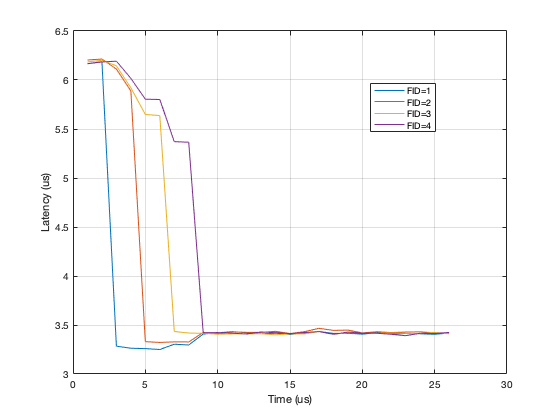
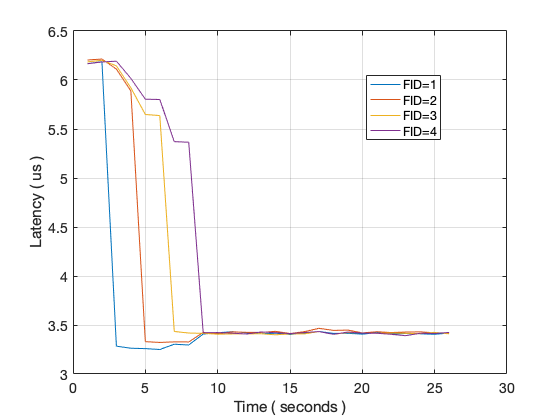
added graphs

diff --git a/app/pktgen.c b/app/pktgen.c
@@ -353,6 +353,27 @@ pktgen_insert_program(pg_active_instruction_hdr *instr, uint16_t bytecode[][3], 
 	}
 }
 
+void
+activep4_hdr_ctor(void *hdr, uint16_t flags, uint16_t fid, uint16_t acc_1, uint16_t acc_2, uint16_t reserved_1, uint16_t reserved_2)
+{
+	activep4_hdr_t *activep4 = hdr;
+
+	activep4->flags = rte_bswap16(flags);
+	activep4->fid = rte_bswap16(fid);
+	activep4->acc_1 = rte_bswap16(acc_1);
+	activep4->acc_2 = rte_bswap16(acc_2);
+	activep4->reserved_1 = rte_bswap16(reserved_1);
+	activep4->reserved_2 = rte_bswap16(reserved_2);
+}
+
+static inline void
+pktgen_insert_nop_program(pg_active_instruction_hdr *instr)
+{
+	pktgen_active_add_instruction(instr, 0, 3, 0); instr++;
+	pktgen_active_add_instruction(instr, 0, 0, 0); instr++;
+	pktgen_active_add_instruction(instr, 0, 1, 0); instr++;
+}
+
 static inline void
 pktgen_customize_cacheread_request(port_info_t *info, pg_active_instruction_hdr *instr, uint16_t key, uint16_t fidx)
 {
@@ -437,6 +458,7 @@ pktgen_active_insert(port_info_t *info __rte_unused,
 	int i;
 	uint16_t key, fid, flags;
 	uint32_t index;
+	uint64_t now, clkspeed;
 	int core_id = (rte_lcore_id() - 10) / 2 - 1;
 	//core_id = 0;
 	for (i = 0; i < cnt; i++) {
@@ -446,7 +468,16 @@ pktgen_active_insert(port_info_t *info __rte_unused,
 		//core_id = fid - 1;
 
 		fid = core_id + 1;
-		//fid = 1;
+
+		if(core_id == 0) {
+			//fid = 10;
+			now = rte_rdtsc_precise();
+			clkspeed = rte_get_tsc_hz();
+			info->activep4_stats[core_id].elapsed_sec = (now - info->activep4_stats[core_id].start_time) * 1.0f / clkspeed;
+			/*if(info->activep4_stats[core_id].elapsed_sec >= 5) {
+				fid = 1;
+			}*/
+		}
 
 		pg_active_initial_hdr *activep4;
 		pg_active_instruction_hdr *instr;
@@ -500,7 +531,10 @@ pktgen_active_insert(port_info_t *info __rte_unused,
 				index = irand(info->activep4_stats[core_id].zipf_len);
 				key = info->activep4_stats[core_id].zipf[index].key;
 				activep4->acc2 = rte_bswap16(key);
-				pktgen_customize_cacheread_request(info, instr, key, core_id);
+				if(info->activep4_stats[core_id].elapsed_sec >= 5)
+					pktgen_customize_cacheread_request(info, instr, key, core_id);
+				else
+					pktgen_insert_nop_program(instr);
 			}
 		} else {
 			//info->sizes._65_127++;
@@ -622,7 +656,7 @@ pktgen_recv_tstamp(port_info_t *info, struct rte_mbuf **pkts, uint16_t nb_pkts)
 			if (tstamp->magic == TSTAMP_MAGIC) {
 				now = rte_rdtsc_precise();
 				clkspeed = rte_get_tsc_hz();
-				now_msecs = round((now * 1 / clkspeed));
+				now_msecs = round((now * 1.0f / clkspeed));
 				lat = (now - tstamp->timestamp);
 				lat_adjusted = (lat * 1.0f / clkspeed) * 1E9;
 				if(info->activep4_last_msec == 0) 

diff --git a/app/pktgen-cmds.c b/app/pktgen-cmds.c
@@ -1670,14 +1670,14 @@ pktgen_stop_latency_sampler(port_info_t *info)
 		{
 			pktgen_log_info("Writing to file %s", info->activep4_stats[j].latsamp_stats.outfile);
 			count = 0;
-			/*for (i = 0; i < info->activep4_curr_msec; i++) {
+			for (i = 0; i < info->activep4_curr_msec; i++) {
 				fprintf(outfile, "%" PRIu16 ",%" PRIu64 "\n", i, info->activep4_stats[j].latency_avg[i]);
 				count++;
-			}*/
-			for (i = 0; i < info->activep4_stats[j].latsamp_stats.idx; i++){
+			}
+			/*for (i = 0; i < info->activep4_stats[j].latsamp_stats.idx; i++){
 				fprintf(outfile, "%" PRIu64 ",%" PRIu64 "\n", info->activep4_stats[j].latsamp_stats.ts[i], info->activep4_stats[j].latsamp_stats.data[i]); 
 				count++;
-			}
+			}*/
 			fclose(outfile);
 			pktgen_log_warning("Wrote %d sample latencies to file %s", count, info->activep4_stats[j].latsamp_stats.outfile);
 		}
@@ -3662,6 +3662,8 @@ activep4_set_default_options(port_info_t *info)
 		info->activep4_stats[i].memallocation.mem_end = 0xFFFF;
 		info->activep4_stats[i].memallocation.pagemask = 0xFFFF;
 		info->activep4_stats[i].memallocation.updated = 0;
+		info->activep4_stats[i].start_time = rte_rdtsc_precise();
+		info->activep4_stats[i].elapsed_sec = 0;
 		for(j = 0; j < MAX_DURATION_MS; j++) {
 			info->activep4_stats[i].latency_avg[j] = 0;
 			info->activep4_stats[i].latency_samples[j] = 0;

diff --git a/app/pktgen-port-cfg.h b/app/pktgen-port-cfg.h
@@ -222,15 +222,26 @@ typedef struct {
 	uint16_t	fid;
 	uint16_t	acc;
 	uint16_t	acc2;
-	uint16_t	id;
-	uint16_t	freq;
-} __attribute__((__packed__)) pg_active_initial_hdr;
+	uint16_t	reserved_1;
+	uint16_t	reserved_2;
+} __attribute__((__packed__)) pg_active_program_hdr;
 
 typedef struct {
-	uint8_t		flags;
+	uint8_t		flags_goto;
 	uint8_t		opcode;
-	uint16_t	args;
-} __attribute__((__packed__)) pg_active_instruction_hdr;
+	uint16_t	arg;
+} __attribute__((__packed__)) pg_active_instr_block;
+
+typedef struct {
+	uint16_t	bytecode[][3];
+	uint16_t	codelen;
+	uint16_t 	flags;
+	uint16_t 	fid;
+	uint16_t 	acc_1;
+	uint16_t 	acc_2;
+	uint16_t 	reserved_1;
+	uint16_t 	reserved_2;
+} pg_active_app_t;
 
 typedef struct {
 	uint16_t	fid;
@@ -273,6 +284,8 @@ typedef struct {
 	uint64_t				latency_samples[MAX_DURATION_MS];
 	uint32_t				fidx;
 	flow_t					flows[FLOWS_PER_CORE];
+	uint32_t				elapsed_sec;
+	uint64_t				start_time;
 } activep4_t;
 
 typedef struct port_info_s {

diff --git a/data/scratch.m b/data/scratch.m
@@ -2,10 +2,27 @@ clear;
 clc
 
 data = csvread('activep4_latency_0.csv');
+slb = csvread('collision_rates.csv');
 
-data = data( : , 2);
-data = data / 1000;
+figure
+ts = floor( data( : , 1) / 1E9 );
+data = data( : , 2) / 1000;
+yyaxis left
+plot(1:size(ts, 1), data);
+ylabel('Latency (us)');
+%ylim([0 15]);
+hold on
+yyaxis right
+plot(1:length(slb), slb);
+ylabel('% Collisions');
+ylim([0 5]);
 
-cdfplot(data);
+xlabel('Time (secs)');
+grid on
 
-xlim([0 50]);
+% data = data( : , 2);
+% data = data / 1000;
+% 
+% cdfplot(data);
+% 
+% xlim([0 50]);
